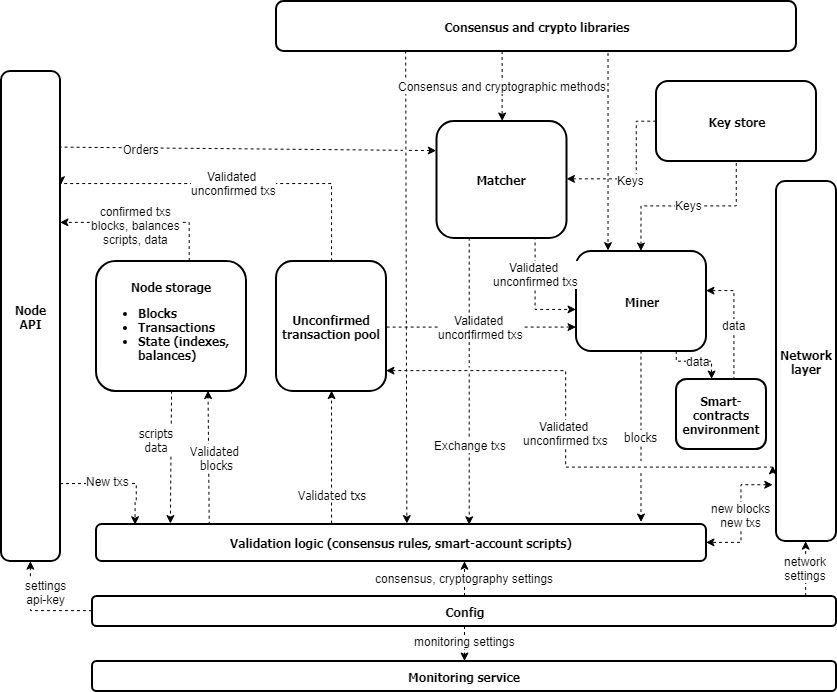
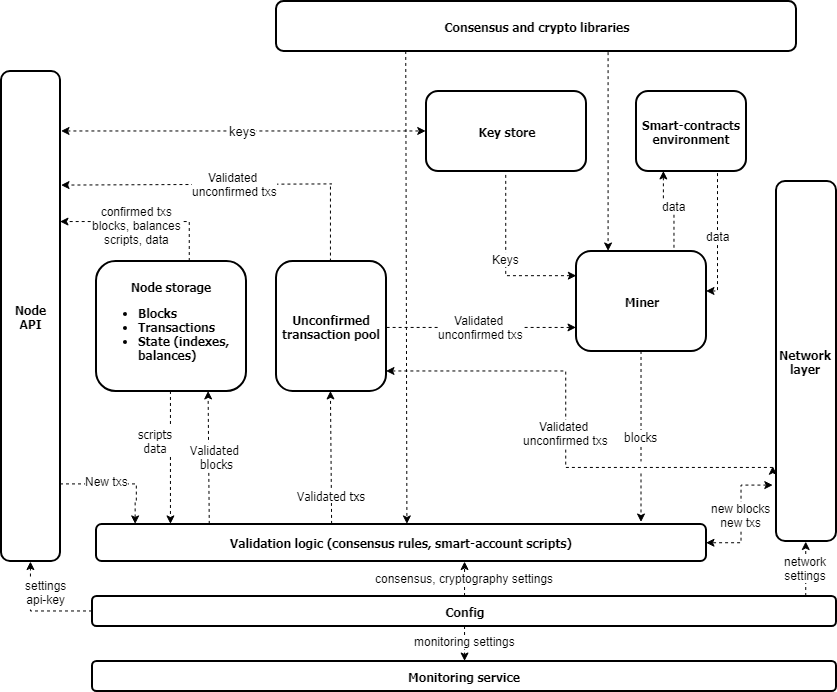
architecture page added

diff --git a/how-the-platform-works/architecture.rst b/how-the-platform-works/architecture.rst
@@ -1,34 +1,40 @@
 Архитектура платформы
 ========================================
 
-(нужно перевести и переработать текст)
+Платформа Vostok построена на базе технологии распределенного реестра, обеспечивающего необ¬ходимый уровень согласованности и доступности данных, а также устойчивости к злонамерен¬ному изменению информации.
+Vostok использует язык программирования Scala и имеет модульную архитектуру, что позволяет гибко подстраивать приложение под потребности бизнеса.
+Наша платформа поддерживает алгоритмы консенсуса Proof-of-Stake и Proof-of-Authority. 
+Таким образом можно создать такую конфигурацию сети, в которой основная блокчейн-цепочка, предназначенная для анкоринга данных из сайдчейнов, базируется на алгоритме консенсуса Proof-of-Stake, в тоже время корпоративные сайдчейны, в которых нет необходимости создания токенов, используют алгоритм Proof-of-Authority. Поскольку, алгоритм Proof-of-Authority создает экономичную модель, основанную на запасах токенов VST, то разделяя прибыль от обслуживания такой сети валидирующие узлы заинтересованы в ее поддержке.
+Сайдчейны встраиваются в основную цепочку с помощью механизма анкоринга (помещая криптографические доказательства транзакций в основную блокчейн-сеть).
 
+Топология сети, включающая основную цепочку и сайдчейны, представлена на схеме 
+ 
+.. image:: img/architecture-sidechains.png
 
-.. image:: img/architecture-node-1.png
+Архитектура ноды
+----------------------
+ 
+ .. image:: img/architecture-node-1.png
 
+- Node API – интерфейс REST API ноды, позволяющий получать данные из блокчейна, подписывать и отправлять транзакции (с помощью API можно реализовать кошелек или сервис нотариата);
+- Node storage – компонент системы, обеспечивающий хранение полного журнала транзакций и состояния блокчейна;
+- Unconfirmed transaction pool – компонент, обеспечивающий хранение неподтвержденных транзакций до момента проверки и отправки их в блокчейн;
+- Consensus and cryptolibraries – модули, отвечающие за механизм достижения согласия между узлами в сети и криптографические алгоритмы;
+- KeyStore - специализированное хранилище приватных ключей, которое используется нодой для валидации, подписания данных и шифрования;
+- Miner – компонент, отвечающий за упорядочивание и включение транзакций в блок;
+- Network layer – слой логики, обеспечивающий сетевой протокол для взаимодействия нод;
+- Smart-contract environment – среда для выполнения Тьюринг-полных смарт-контрактов;
+- Validation logic – слой логики, содержащий правила проверки транзакций;
+- Config – конфигурационные параметры ноды;
+- Monitoring Service – сервис мониторинга и базой для хранения данных.
+
+Дополнительные сервисы
+----------------------------
 
 .. image:: img/architecture-client-1.png
-
-Vostok platform provides out-of-the-box solution for launching a custom permissioned chain for the given business case. The focus is made on flexibility of the custom chain, its customization features.  Therefore it is of a vital importance to provide a module architecture that  supports different consensus algorithms, cryptography schemes, and role models.
-
-Figure below describes general Vostok Node architecture.
-
-Different architectures may require different approach to the blockchain consensus.  In the main chain we use PoS algorithm, which supports the economical model based on VST token holdings, making profits from network maintenance proportional to a stake in VST token held by a node. On the other hand, for corporate sidechains it may make more sense to provide consensus algorithm that does not require introduction of any new entities and is more focused on required technical parameters of the network such as throughput.  To this end we implement the following consensus algorithms, in addition to PoS: Proof of Authority and PBFT. In a permissioned blockchain they basically serve the same purpose of providing basic and simple consensus for a system with a small to moderate amount of nodes, focusing on speed.  The goal of consensus protocols in permissioned systems is to provide the validators succession, and provide for the distributed nature of the system. Sybil attacks that undermine the security of open blockchains are impossible in this case, since all the validating nodes are vetted by a centralized administrator. Thus the focus in the consensus algorithms in permissioned blockchains is not on the scarce resource that has to be used in order to be eligible for the mining reward, but  on the system decentralization and fairness.
-
-.. image:: img/platform-model.png
-
-
-Main idea: basically we have a fractal network, where side- and sub-chains replicate the main chain, and the main chain is used as a global arbiter and reference chain, sidechains are meant to be customizable and potentially interacting with the main chain
-
-Vostok blockchain is meant to be a universal solution for fast deployment of customizable blockchain applications for enterprise and public services usage. Network architecture and topology is constructed to be highly customizable, at the same time accounting for the benefits of open blockchain economic models.  It is understood that certain businesses and applications would need a separate permissioned chain, maintained and supported by a certain group of nodes, rather than by all the nodes of the permissioned chain. At the same time, these chains can be secured by a larger, “master” chain through mechanism similar to merged mining.
-
-Thus we obtain the following topology of the system: The main chain is supported by a selected group of nodes, side chains are similar in design to the main chain, at the same time having an architecture tailor-made to account for the concrete business case. Side chains tie in into the main chain through checkpointing (placing cryptographic proofs of transactions in side chains onto the main chain) or merged mining process, in which main net nodes secure the side chain data without actually storing it.
-
-Mainnet is optimized for performance and data storage; since the network is permissioned the technical specification for the supporting nodes can account for the required network throughput and data storage capacity.  Its main purpose is to support high throughput and serve as an anchor for corporate sidechains which are attuned to specific needs of corresponding businesses.  Of course, mainchain can be used for maintaining business applications that do not require a separate network, for example payments, notarized data storage, loyalty programs etc.
-
-On the other hand, sidechains can be launched and maintained according to the concrete business case.  Imitating the main-chain architecture in general, they might be quite divergent from it in applications and usage. Thus Vostok chain supports different consensus algorithms, different cryptography schemes and role models. Cryptography and consensus is realized in module architecture, which allows for quick launch of private sidechains  with required properties.
-
-Figure below describes overall Vostok Platform architecture, as well as sidechain and mainnet relations and communications.
-
-
-.. image:: img/network-model.png
+ 
+- Vostok corporate client – корпоративный клиент, предоставляющий средства для управления сетью и взаимодействия с блокчейном. Подробные сведения о клиенте приведены в разделе
+- Data service – сервис, агрегирующий данные из блокчейна и предоставляющий возможность построения различных аналитик посредством SQL запросов;
+- Node tools – набор утилит, автоматизирующих процессы управления ключами в keystore ноды, генерации транзакций и подписания genesis-блока;
+- Authorization service – сервис авторизации для компонентов системы;
+- Docker registry – сервис для хранения и управления образами смарт-контрактов.

diff --git a/how-to-use/rest-api-node.rst b/how-to-use/rest-api-node.rst
@@ -13,13 +13,17 @@ REST API ноды
 
 требуется обязательная передача параметра ``X-Api-Key`` со значением секретной фразы, hash которой указан в конфигурационном файле ноды (поле ``rest-api.api-key-hash``).
 
+Генерация значения поля ``rest-api.api-key-hash`` выполняется с использованием метода `/utils/hash/secure` REST API ноды.
+
 Пример запроса: 
 
 .. code::
 
-    curl -X POST --header 'Content-Type: application/json' --header 'Accept: application/json' --header 'X-API-Key: 1' -d '1' 'http://2.testnet-pos.vostoknodes.com:6862/transactions/calculateFee'
+    curl -X POST 
+    --header 'Content-Type: application/json' 
+    --header 'Accept: application/json' 
+    --header 'X-API-Key: 1' -d '1' 'http://2.testnet-pos.vostoknodes.com:6862/transactions/calculateFee'
 
-Генерация значения поля ``rest-api.api-key-hash`` выполняется с использованием метода `/utils/hash/secure` REST API ноды.
 
 Примеры транзакций приведены на странице :ref:`transaction-example`.
 
